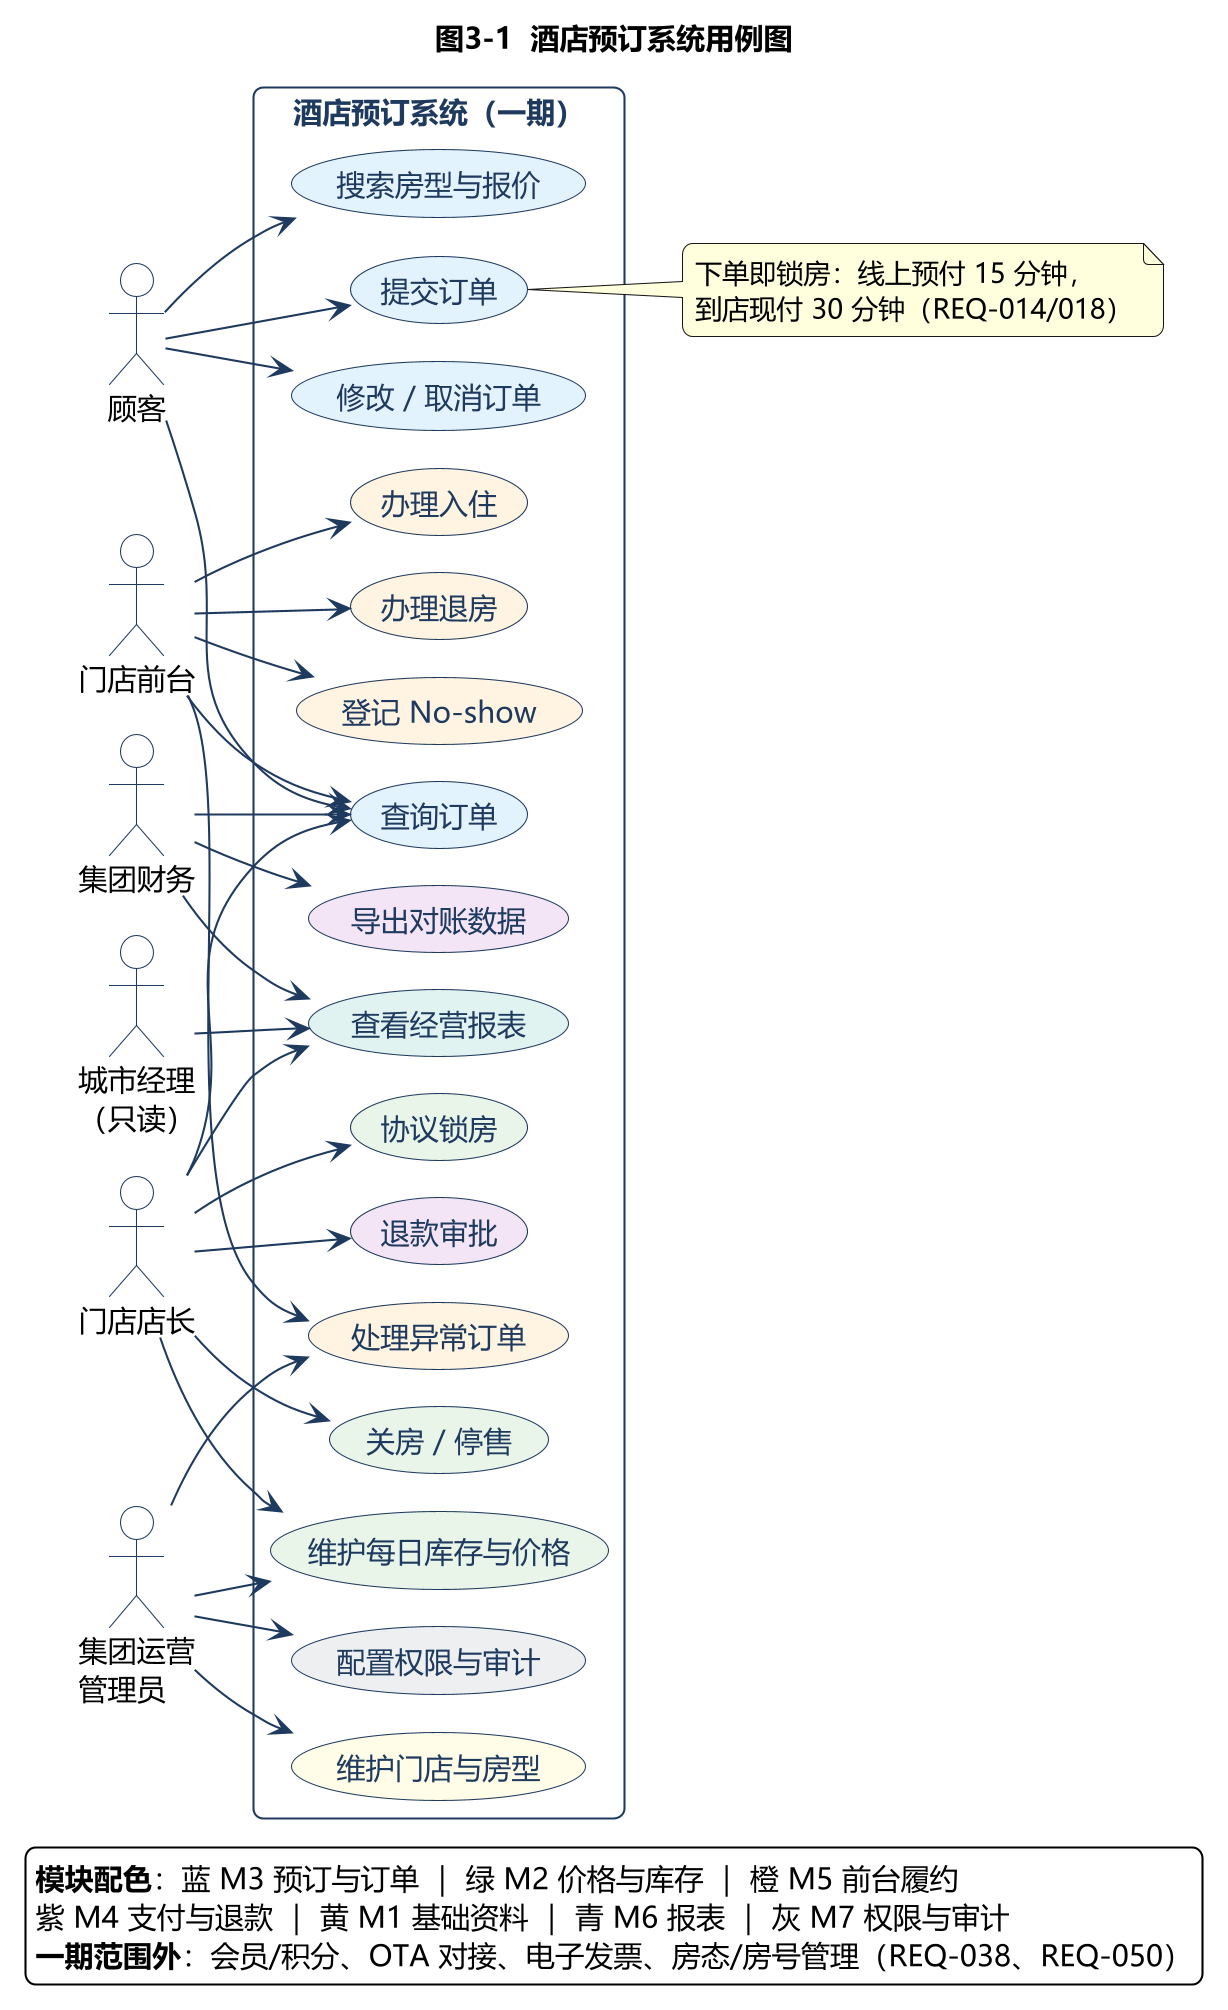
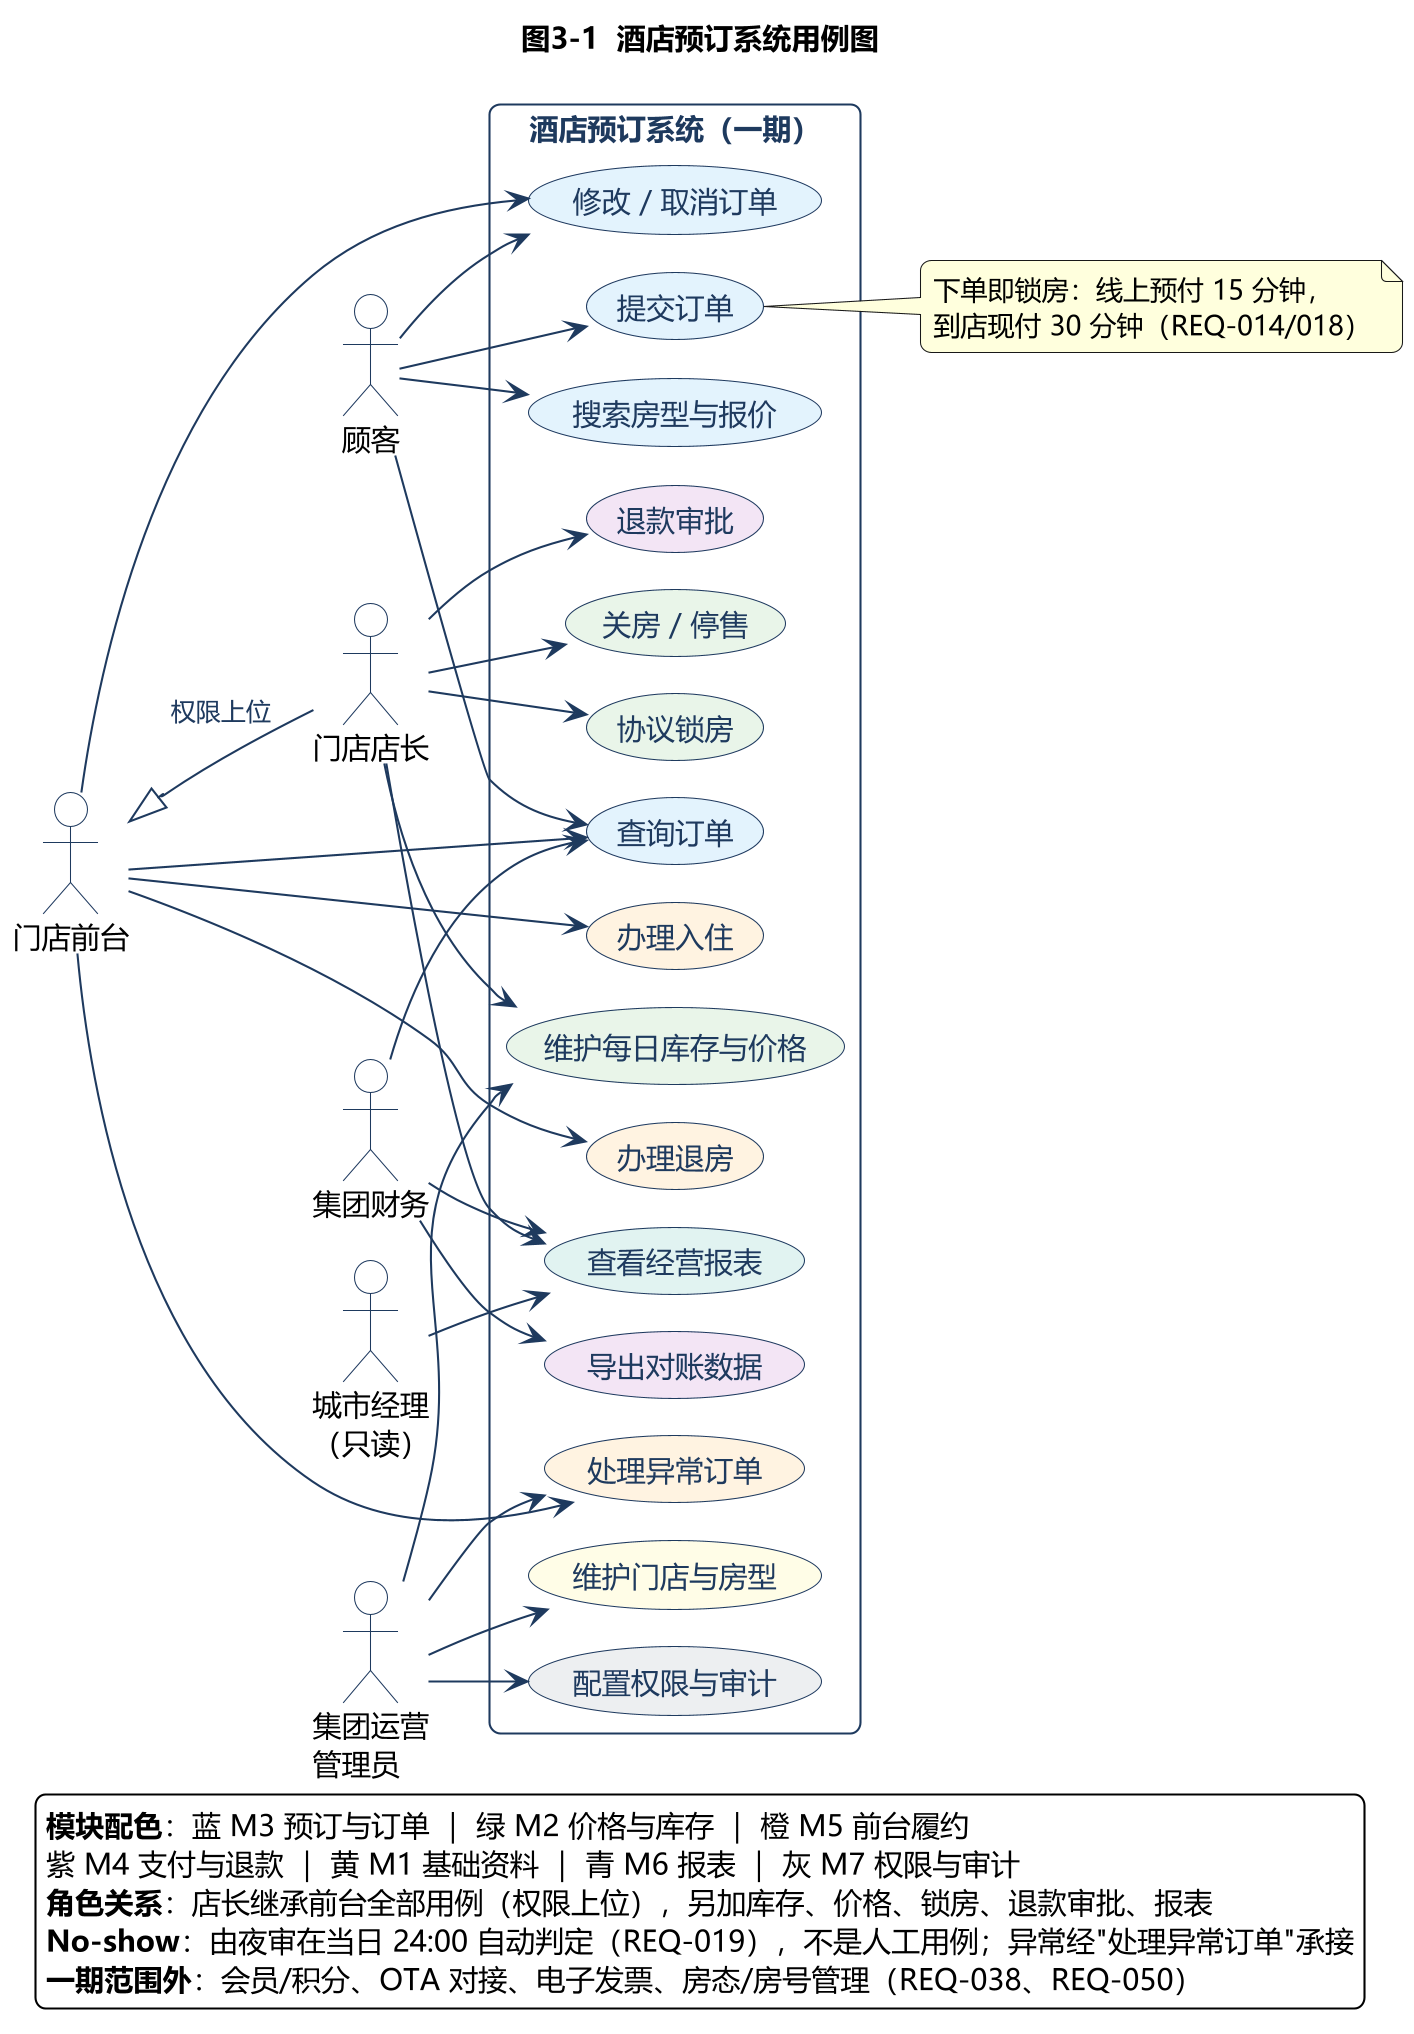
fix(lab2): 用例图删 No-show 人工用例，店长改为继承前台（REQ-019/001）
- No-show 由夜审 24:00 自动判定，从用例图移除；状态图保留该状态，调度任务补夜审
- 店长 <|-- 前台 参与者泛化，继承入住/退房/异常/查询，消除前台能做店长不能的假象
- 前台补现场改退单关联（REQ-001）
- README 同步 15 个顶层用例与图例说明

diff --git a/lab2/UML/README.md b/lab2/UML/README.md
@@ -28,7 +28,9 @@
 ### 图3-1 用例图
 
 - 6 类角色：顾客、门店前台、门店店长、集团财务、集团运营管理员、城市经理（只读）。
-- 16 个顶层用例，按模块配色；细节（锁房 15/30 分钟、范围外功能）放在图例/注释，避免图过大。
+- 15 个顶层用例，按模块配色；细节（锁房 15/30 分钟、范围外功能）放在图例/注释，避免图过大。
+- 店长用**参与者泛化**（`前台 <|-- 店长`）表达"权限上位"：前台能做的入住/退房/异常/查询，店长自动继承；店长只额外画库存、价格、锁房、退款审批、报表。
+- No-show 由夜审在 24:00 自动判定（REQ-019），**不作为人工用例**；异常经"处理异常订单"承接。
 - 刻意不画会员积分、OTA 对接、电子发票、房态管理——这些在实验一已被否决（REQ-038/050）。
 
 ### 图3-2 类图
@@ -84,7 +86,7 @@
 | 组件图 | M2 的 note + 图例 S3 | 锁房写 `group_lock`、逐日累加；到期由 S3 调度释放 |
 | 状态图 | 底部图例 | 明确"协议锁房不进入订单状态机"，单独管理生效/释放/转订单 |
 | 活动图 | 底部图例 | 协议锁房由店长单独创建，不经过散客下单流程 |
-| 部署图 | "调度任务"节点 | 负责订单超时取消与协议锁房到期释放 |
+| 部署图 | "调度任务"节点 | 负责订单超时、协议锁房到期，以及夜审 No-show 判定 |
 
 尚未落到图上的：协议锁房在 UI（库存日历）中的展示，等 UI 阶段补。
 
@@ -92,7 +94,7 @@
 
 ## 3. 已知问题（人工修改时优先处理）
 
-1. **用例图偏长（1228×2010）**：16 个用例纵向排列，A4 整页可读但偏小。建议拆成"顾客与门店端""集团端"两张，或压缩到 10 个顶层用例。
+1. **用例图偏长（1414×2034）**：15 个用例纵向排列，A4 整页可读但偏小。建议拆成"顾客与门店端""集团端"两张，或压缩到 10 个顶层用例。
 2. **类图偏宽（4142×1711）**：建议横排整页；若要竖排，需再拆"交易域/支撑域"。
 3. **部署图有两条跨线**（报表只读、导出文件），可调整节点声明顺序或改用 `left to right direction` 重排。
 4. **组件图没有包框**：层次靠图例，若老师要求严格分层，可手工加 `package` 后微调。
